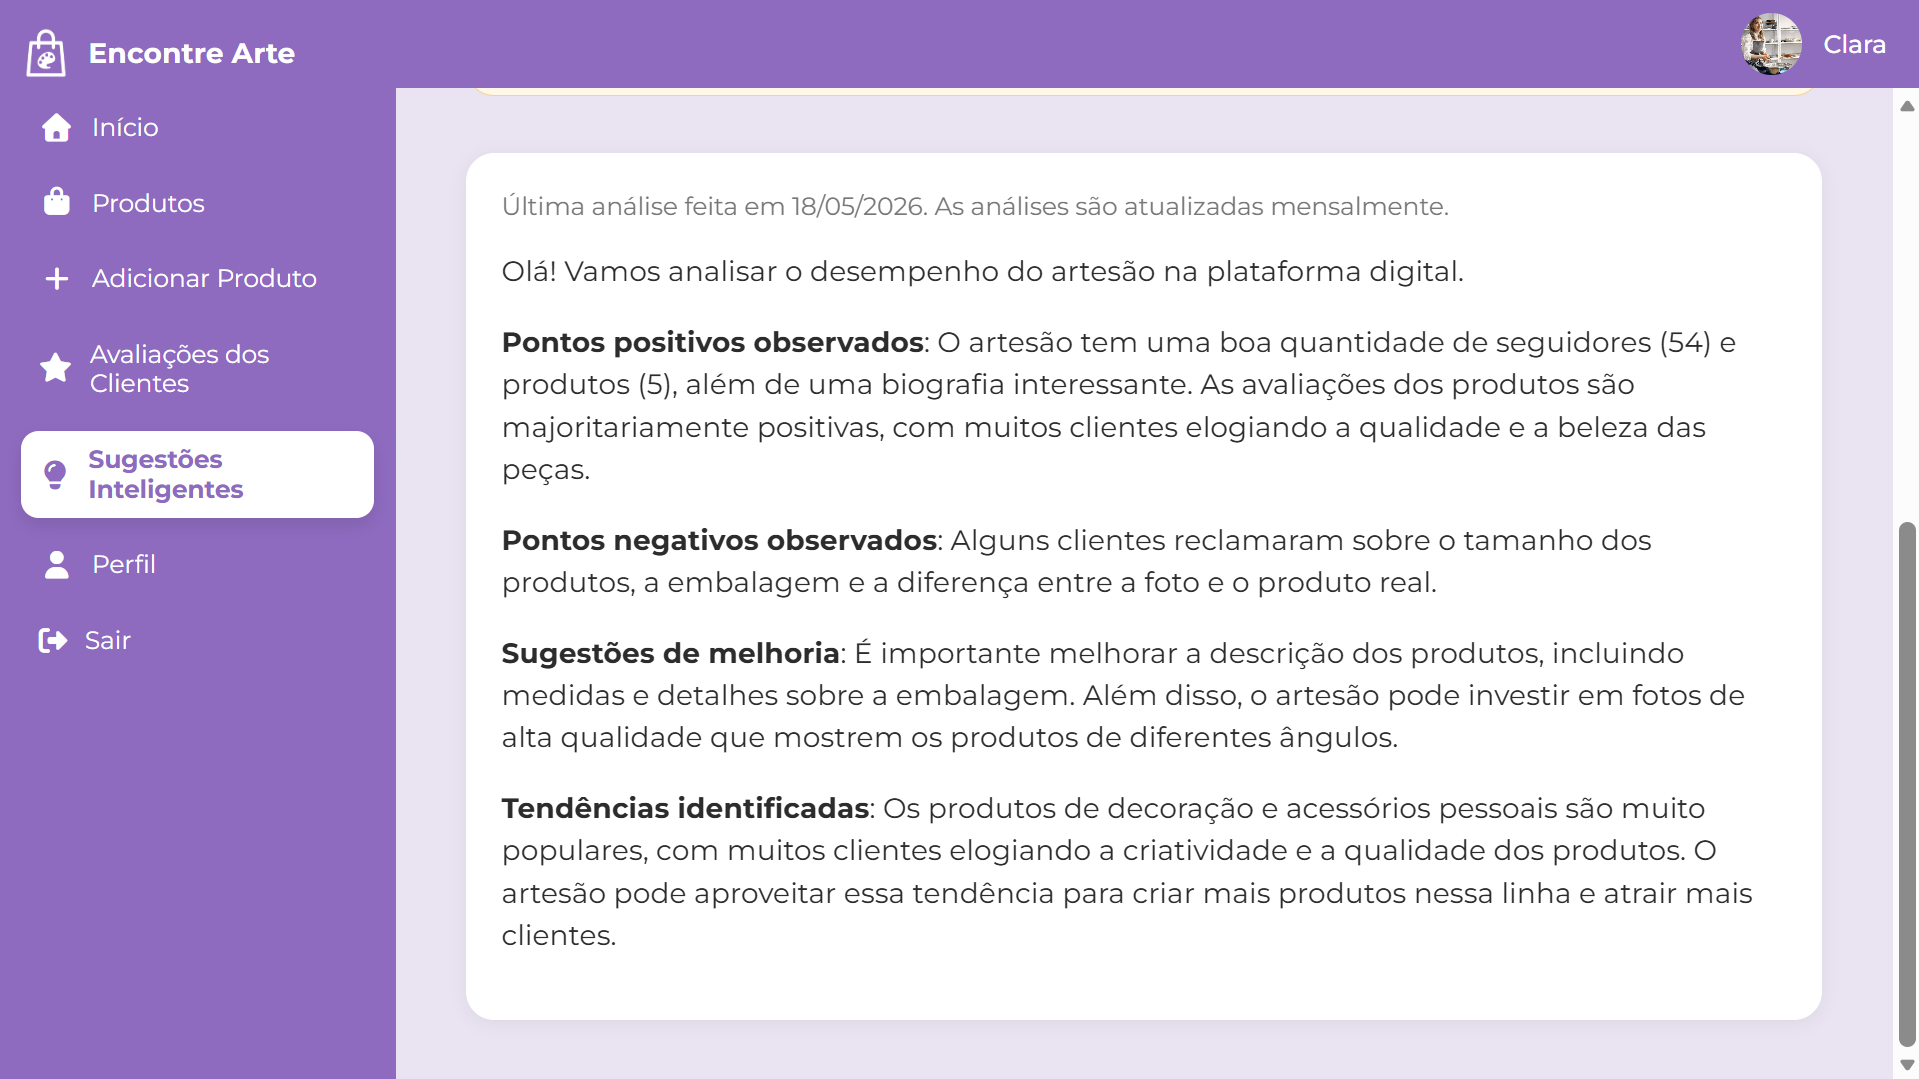
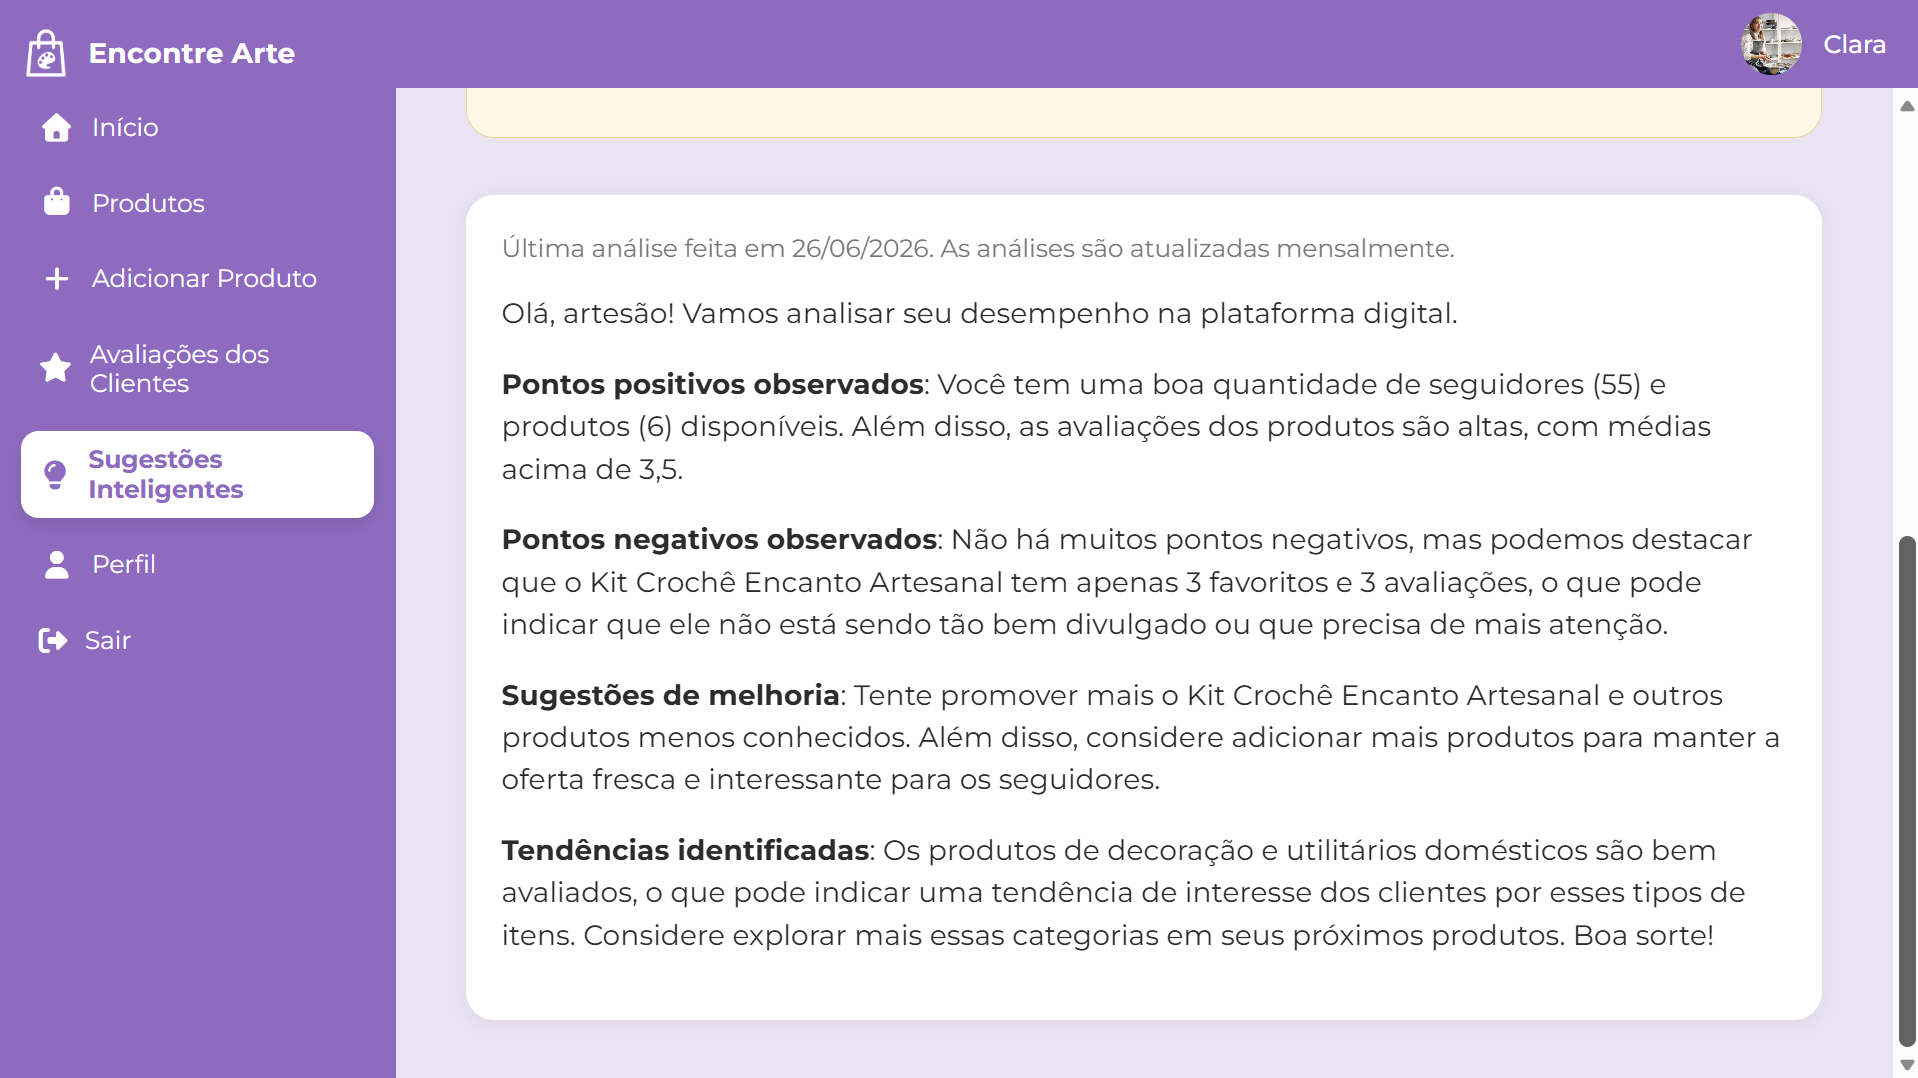
fix(Sugestões Inteigentes

diff --git a/app/Services/AIInsightService.php b/app/Services/AIInsightService.php
@@ -16,17 +16,8 @@ class AIInsightService
                 'category',
                 'technique',
                 'materials',
-                'reviews'
             ])
             ->get();
-        
-        $products->each(function ($product) {
-
-            $product->setRelation(
-                'reviews',
-                $product->reviews->take(20)
-            );
-        });
         
         /* CSV COM DADOS DO ARTESÃOS */
         
@@ -47,7 +38,7 @@ class AIInsightService
         /* CSV COM DADOS DOS PRODUTOS DO ARTESÃO */
 
         $productsCsv =
-            "nome,descricao,categoria,tecnica,material,favoritos,avaliacoes\n";
+            "nome,descricao,categoria,tecnica,material,favoritos,avaliacoes, media_avaliacao\n";
 
         foreach ($products as $product) {
 
@@ -65,33 +56,14 @@ class AIInsightService
 
                 $product->favoritedBy()->count() . ',' .
 
-                $product->reviews->count()
+                $product->reviews->count() . ',' .
+
+                $product->averageRating()
 
                 . "\n";
         }
 
-        /* CSV DE AVALIAÇÕES DOS PRODUTOS */
-
-        $reviewsCsv =
-            "produto,nota,comentario\n";
-
-        foreach ($products as $product) {
-
-            foreach ($product->reviews as $review) {
-
-                $reviewsCsv .=
-
-                    '"' . $product->name . '",' .
-
-                    $review->rating . ',' .
-
-                    '"' . str_replace('"', '', $review->comment) . '"'
-
-                    . "\n";
-            }
-        }
-
-        /* PROMP */ 
+        /* PROMPT */ 
         $prompt = "
         Você é um assistente inteligente para artesãos em um contexto de Economia Criativa.
         Considere os dados e os arquivos CSV abaixo.
@@ -101,9 +73,6 @@ class AIInsightService
  
         CSV DE PRODUTOS
         {$productsCsv}
-        
-        CSV DE AVALIAÇÕES
-        {$reviewsCsv}
         
         Com base nessas informações, realize uma análise geral do desempenho do artesão na plataforma digital e gere: 
 

diff --git a/resources/views/artisan/smart_suggestions.blade.php b/resources/views/artisan/smart_suggestions.blade.php
@@ -45,18 +45,20 @@
 
         <li>Descrição/história do artesão;</li>
 
+        <li>Quantidade de seguidores;</li>
+
         <li>Produtos cadastrados;</li>
 
         <li>Categorias, técnicas e materiais;</li>
 
         <li>Favoritos recebidos;</li>
 
-        <li>Avaliações, notas e comentários.</li>
+        <li>Quantidade de avaliações recebidas e média das notas atribuídas aos produtos.</li>
 
     </ul>
 
     <p>
-        Essas informações são utilizadas exclusivamente para gerar recomendações personalizadas para o próprio artesão. O processamento é realizado por meio do serviço de IA utilizado pela plataforma, e os dados não são compartilhados com outros usuários. Você pode revogar a autorização para utilização da IA a qualquer momento.
+        Essas informações são enviadas ao serviço de Inteligência Artificial utilizado pela plataforma com a finalidade de gerar recomendações personalizadas para o próprio artesão. Os dados não são compartilhados com outros usuários, e a autorização para utilização da funcionalidade pode ser revogada a qualquer momento.
     </p>
 
 </div>

diff --git a/README.md b/README.md
@@ -148,9 +148,8 @@ Utilizou-se o modelo **Llama 3.3 70B Versatile** disponibilizado por meio da API
 
 ### Dados
 
-- Perfil do Artesão: Quantidade de seguidores, número de produtos cadastrados, descrição da história/biografia;
-- Produtos: Quantidade de avaliações recebidas, número de favoritos, nome, descrição, categorias, técnicas, materiais;
-- Avaliações dos Produtos: produto avaliado, nota e comentário atribuídos pelo cliente.
+- Perfil do Artesão: quantidade de seguidores, número de produtos cadastrados e descrição da história/biografia;
+- Produtos: nome, descrição, categoria, técnica, materiais, quantidade de favoritos, quantidade de avaliações e média das avaliações.
 
 ### Prompt 
 
@@ -161,7 +160,7 @@ O prompt utilizado para geração das sugestões inteligentes encontra-se dispon
 
 ### Exemplo de Saída
 
-Como resposta, é produzido um texto que destaca pontos positivos e pontos negativos observados, além de sugerir melhorias e identificar padrões observados nas avaliações e interações registradas na plataforma.
+Como resposta, é produzido um texto que destaca pontos positivos e pontos negativos observados, além de sugerir melhorias e identificar padrões observados nas interações registradas na plataforma.
 
 ![Sugestões Inteligentes - parte inferior](docs/images/sugestoes-inteligentes.png)
 
@@ -172,9 +171,8 @@ Como resposta, é produzido um texto que destaca pontos positivos e pontos negat
 
 ### Privacidade
 
-Para geração das Sugestões Inteligentes, são enviados à API Groq dados relacionados ao perfil do artesão, aos produtos cadastrados e às avaliações recebidas pelos produtos.
-Os dados enviados são utilizados exclusivamente para geração das Sugestões Inteligentes, respeitando o escopo definido pelo sistema.
-Informações sensíveis, como credenciais de acesso, não são compartilhadas com o modelo de Inteligência Artificial.
+Para geração das Sugestões Inteligentes, são enviados à API Groq dados relacionados ao perfil do artesão, aos produtos cadastrados e às avaliações (média das notas) recebidas pelos produtos.
+Os dados são enviados ao serviço de Inteligência Artificial utilizado pela plataforma exclusivamente com a finalidade de gerar recomendações personalizadas para o próprio artesão. Informações sensíveis, como credenciais de acesso, não são compartilhadas com o modelo de Inteligência Artificial.
 
 ---
 

diff --git a/docs/simulacao/prompts/ia-generativa.md b/docs/simulacao/prompts/ia-generativa.md
@@ -13,7 +13,6 @@ Considere os dados e os arquivos CSV abaixo.
 
 CSV DO ARTESÃO
 CSV DE PRODUTOS
-CSV DE AVALIAÇÕES
 
 Com base nessas informações, realize uma análise geral do desempenho do artesão na plataforma digital e gere: 
 